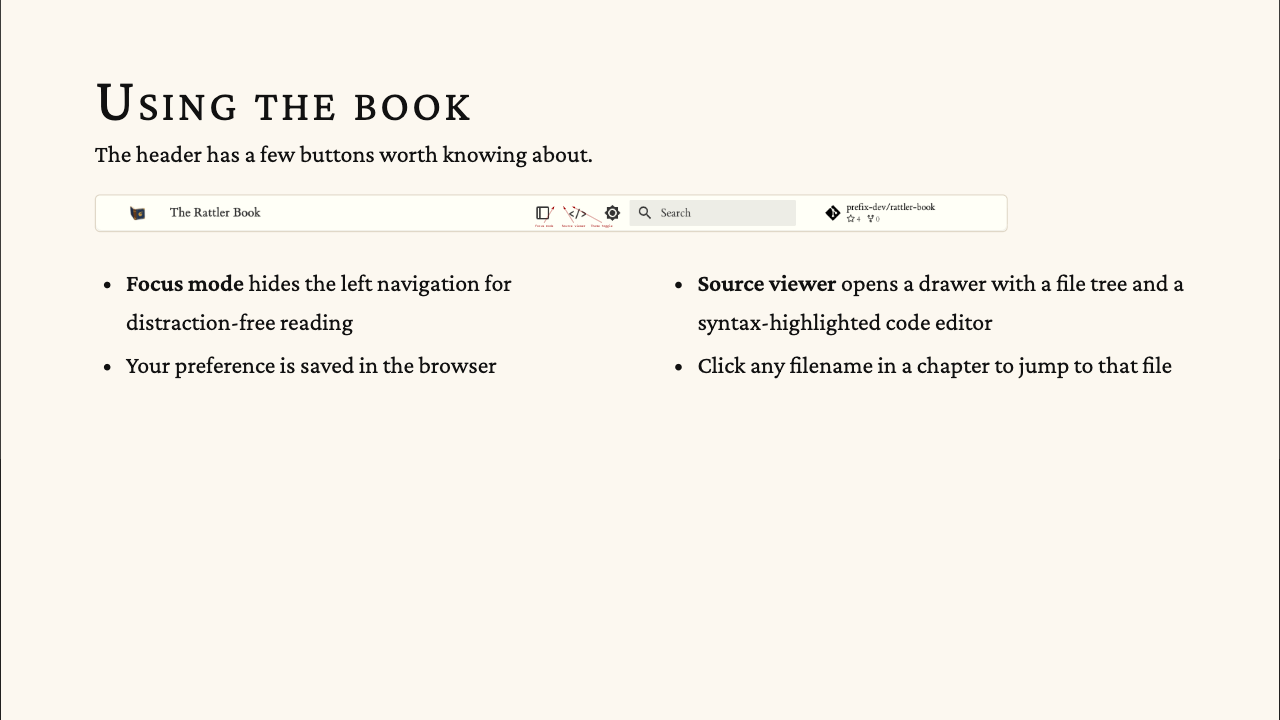
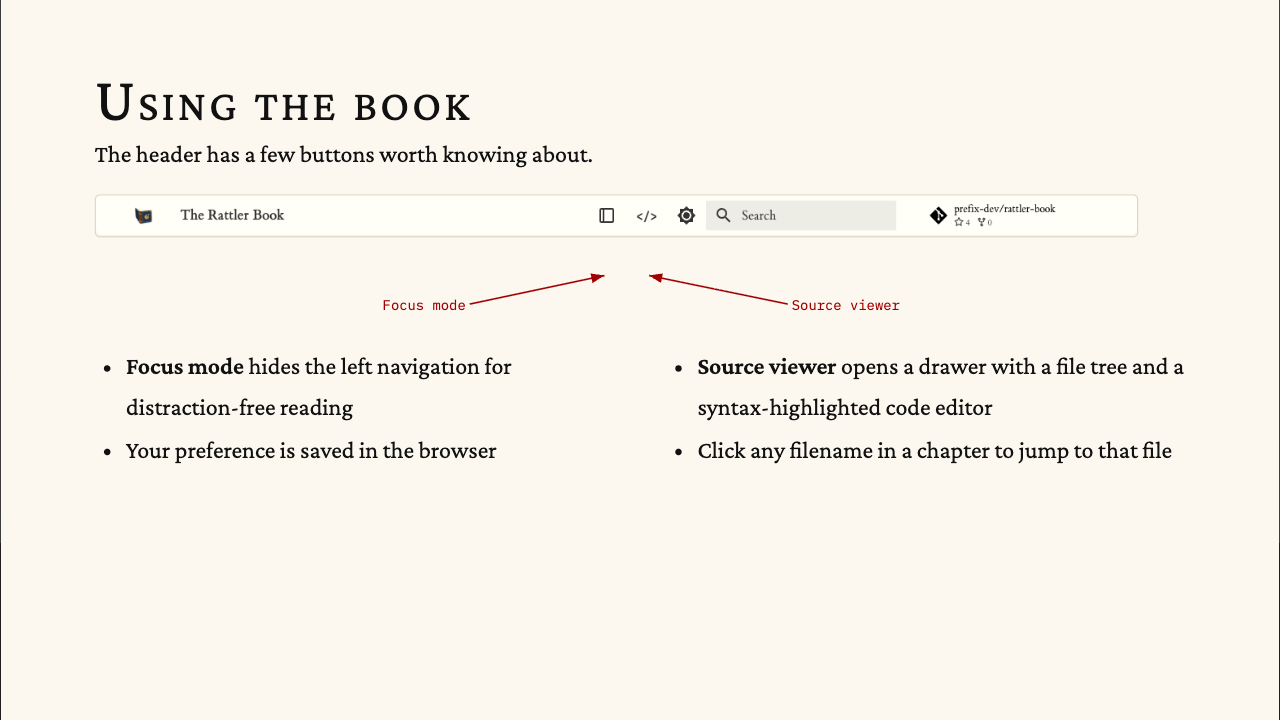
feat: moving things around

diff --git a/components/NavbarAnnotated.vue b/components/NavbarAnnotated.vue
@@ -1,21 +1,18 @@
 <template>
   <div class="navbar-annotated">
     <img src="/book-navbar.png" class="navbar-img" alt="Book navbar" />
-    <svg class="annotations" viewBox="0 0 900 160" preserveAspectRatio="xMidYMid meet">
+    <svg class="annotations" viewBox="0 0 1280 100" preserveAspectRatio="xMidYMid meet">
       <defs>
-        <marker id="arrowhead" markerWidth="8" markerHeight="6" refX="8" refY="3" orient="auto">
+        <marker id="arr" markerWidth="8" markerHeight="6" refX="8" refY="3" orient="auto">
           <polygon points="0 0, 8 3, 0 6" fill="#a00000" />
         </marker>
       </defs>
-      <!-- Focus mode arrow -->
-      <line x1="420" y1="120" x2="462" y2="52" stroke="#a00000" stroke-width="1.5" marker-end="url(#arrowhead)" />
-      <text x="420" y="138" text-anchor="middle" style="font-size:13px!important;font-family:'IBM Plex Mono',monospace!important;line-height:normal!important;" fill="#a00000">Focus mode</text>
-      <!-- Source viewer arrow -->
-      <line x1="545" y1="120" x2="502" y2="52" stroke="#a00000" stroke-width="1.5" marker-end="url(#arrowhead)" />
-      <text x="545" y="138" text-anchor="middle" style="font-size:13px!important;font-family:'IBM Plex Mono',monospace!important;line-height:normal!important;" fill="#a00000">Source viewer</text>
-      <!-- Theme toggle arrow -->
-      <line x1="665" y1="120" x2="540" y2="52" stroke="#a00000" stroke-width="1.5" marker-end="url(#arrowhead)" />
-      <text x="665" y="138" text-anchor="middle" style="font-size:13px!important;font-family:'IBM Plex Mono',monospace!important;line-height:normal!important;" fill="#a00000">Theme toggle</text>
+      <!-- Focus mode: icon center at x=628, y=24 -->
+      <line x1="460" y1="85" x2="625" y2="50" stroke="#a00000" stroke-width="2" marker-end="url(#arr)" />
+      <text x="455" y="92" text-anchor="end" style="font-size:17px!important;font-family:'IBM Plex Mono',monospace!important;line-height:normal!important;" fill="#a00000">Focus mode</text>
+      <!-- Source viewer: icon center at x=677, y=24 -->
+      <line x1="850" y1="85" x2="680" y2="50" stroke="#a00000" stroke-width="2" marker-end="url(#arr)" />
+      <text x="855" y="92" text-anchor="start" style="font-size:17px!important;font-family:'IBM Plex Mono',monospace!important;line-height:normal!important;" fill="#a00000">Source viewer</text>
     </svg>
   </div>
 </template>
@@ -24,7 +21,7 @@
 .navbar-annotated {
   position: relative;
   width: 100%;
-  max-width: 700px;
+  max-width: 800px;
 }
 .navbar-img {
   width: 100%;
@@ -33,15 +30,12 @@
   display: block;
 }
 .annotations {
-  position: absolute;
-  top: 0;
-  left: 0;
   width: 100%;
-  height: 100%;
-  pointer-events: none;
+  display: block;
+  margin-top: -2px;
 }
 .annotations text {
-  font-size: 13px !important;
+  font-size: 17px !important;
   font-family: 'IBM Plex Mono', monospace !important;
   line-height: normal !important;
 }

diff --git a/slides.md b/slides.md
@@ -234,7 +234,46 @@ drawings:
 
 ---
 
-<!-- Slide 3: Why this book? -->
+<!-- Slide 3: Schedule overview -->
+
+# <span class="newthought">Schedule</span>
+
+Two afternoons, 2 hours 20 minutes each.
+
+<div class="flex gap-16 mt-8">
+<div class="flex-1">
+
+### Day 1 · <span class="muted">Today</span>
+
+<div class="schedule-grid mt-4">
+  <span class="time">15:30</span> <span>This intro + setup</span>
+  <span class="time">15:50</span> <span>Pick a chapter, start exercises</span>
+  <span class="time">~17:00</span> <span>Check-in / questions</span>
+  <span class="time">17:50</span> <span>Wrap up</span>
+</div>
+
+</div>
+<div class="flex-1">
+
+### Day 2 · <span class="muted">Tomorrow</span>
+
+<div class="schedule-grid mt-4">
+  <span class="time">15:30</span> <span>Continue exercises <em>or</em></span>
+  <span class="time"></span> <span>switch to rattler PRs</span>
+  <span class="time">~17:00</span> <span>Check-in / questions</span>
+  <span class="time">17:50</span> <span>Wrap up + retro</span>
+</div>
+
+<p class="muted mt-6" style="font-size:0.95rem!important;">
+Day 2 PR backlog: <a href="https://docs.google.com/document/d/1x-7l9eOZJhjv3SMVKcVGMXj8NkEvgK_jzNR_Ua6YD-c/edit?usp=sharing">rattler PR planning doc</a>
+</p>
+
+</div>
+</div>
+
+---
+
+<!-- Slide 4: Why this book? -->
 
 # <span class="newthought">Why this book?</span>
 
@@ -516,45 +555,6 @@ claude --append-system-prompt-file TUTOR.md
 
 - Use `TUTOR.md` as the system prompt
 
-</div>
-
----
-
-<!-- Slide 8: Schedule overview -->
-
-# <span class="newthought">Schedule</span>
-
-Two afternoons, 2 hours 20 minutes each.
-
-<div class="flex gap-16 mt-8">
-<div class="flex-1">
-
-### Day 1 · <span class="muted">Today</span>
-
-<div class="schedule-grid mt-4">
-  <span class="time">15:30</span> <span>This intro + setup</span>
-  <span class="time">15:50</span> <span>Pick a chapter, start exercises</span>
-  <span class="time">~17:00</span> <span>Check-in / questions</span>
-  <span class="time">17:50</span> <span>Wrap up</span>
-</div>
-
-</div>
-<div class="flex-1">
-
-### Day 2 · <span class="muted">Tomorrow</span>
-
-<div class="schedule-grid mt-4">
-  <span class="time">15:30</span> <span>Continue exercises <em>or</em></span>
-  <span class="time"></span> <span>switch to rattler PRs</span>
-  <span class="time">~17:00</span> <span>Check-in / questions</span>
-  <span class="time">17:50</span> <span>Wrap up + retro</span>
-</div>
-
-<p class="muted mt-6" style="font-size:0.95rem!important;">
-Day 2 PR backlog: <a href="https://docs.google.com/document/d/1x-7l9eOZJhjv3SMVKcVGMXj8NkEvgK_jzNR_Ua6YD-c/edit?usp=sharing">rattler PR planning doc</a>
-</p>
-
-</div>
 </div>
 
 ---
